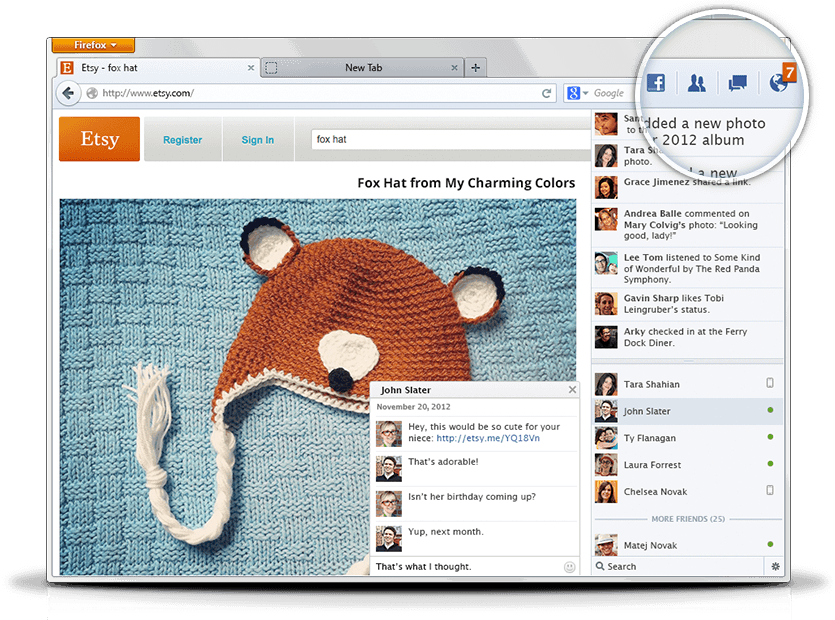
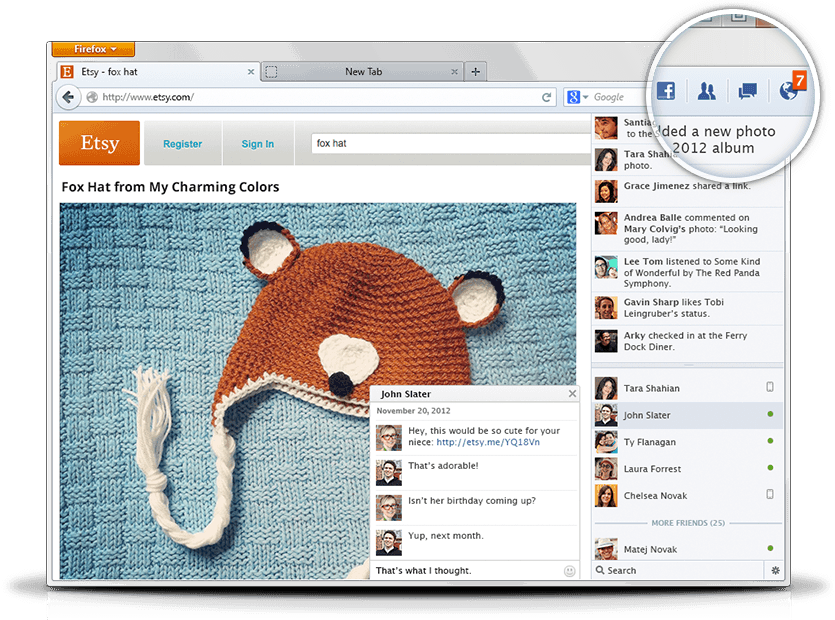
bug 808117 - Updated Mac image, removed Russian promo

diff --git a/apps/firefox/templates/firefox/whatsnew.html b/apps/firefox/templates/firefox/whatsnew.html
@@ -15,27 +15,10 @@
 {% endblock %}
 
 {% block content %}
-{% set webtrends = '?WT.mc_id=moandroid&amp;WT.mc_ev=click' %}
-{% if request.locale.startswith('en') %}
-  {% set mobile_link = url('firefox.fx') + webtrends + '#mobile' %}
-{% else %}
-  {% set mobile_link = php_url('/mobile/') + webtrends %}
-{% endif %}
 
 <h1 id="whatsnew-header">{{ _('Hooray! Your Firefox is up to date.') }}</h1>
 
 <article id="main-content" class="billboard facebook">
-
-  {% if request.locale == 'ru' %}
-  {% l10n whatsnew_feature, 20120712 %}
-  <p id="ru-search">
-    <img src="/media/img/firefox/whatsnew/ru-search.png">
-    Also new in this release: Google is now your default search engine. To change the active search engine, click the down arrow next to the search engine's icon, and select a new search engine.
-    <a href="http://support.mozilla.org/ru/kb/stroka-poiska?e=es&redirectlocale=en-US&as=s&s=manage+search&r=3&redirectslug=Search+bar#w_managing-search-engines">Learn more.</a>
-  </p>
-  {% endl10n %}
-  {% endif %}
-
   <hgroup class="fb-head">
     <h2>{{ _('Facebook Messenger for Firefox') }}</h2>
     <h3>{{ _('Now you can keep up with friends wherever you go on the Web.') }}</h3>
